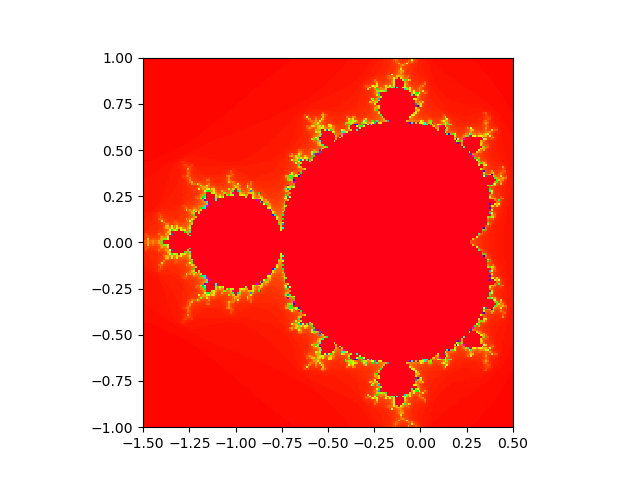
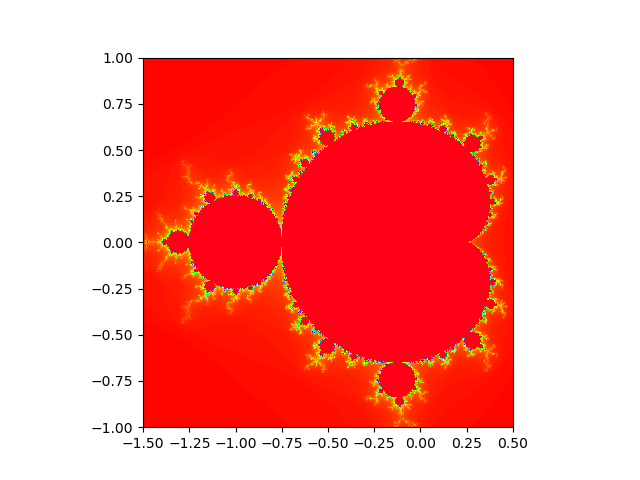
mandelbrot: 1000 by 1000

diff --git a/mandelbrot.py b/mandelbrot.py
@@ -5,7 +5,7 @@ import numpy as np
 M = 250
 
 # Grid pixels N*N
-N = 200
+N = 1000
 
 # D - surrounding of point (x0, y0)
 x0, y0 = (-0.5, 0.)
